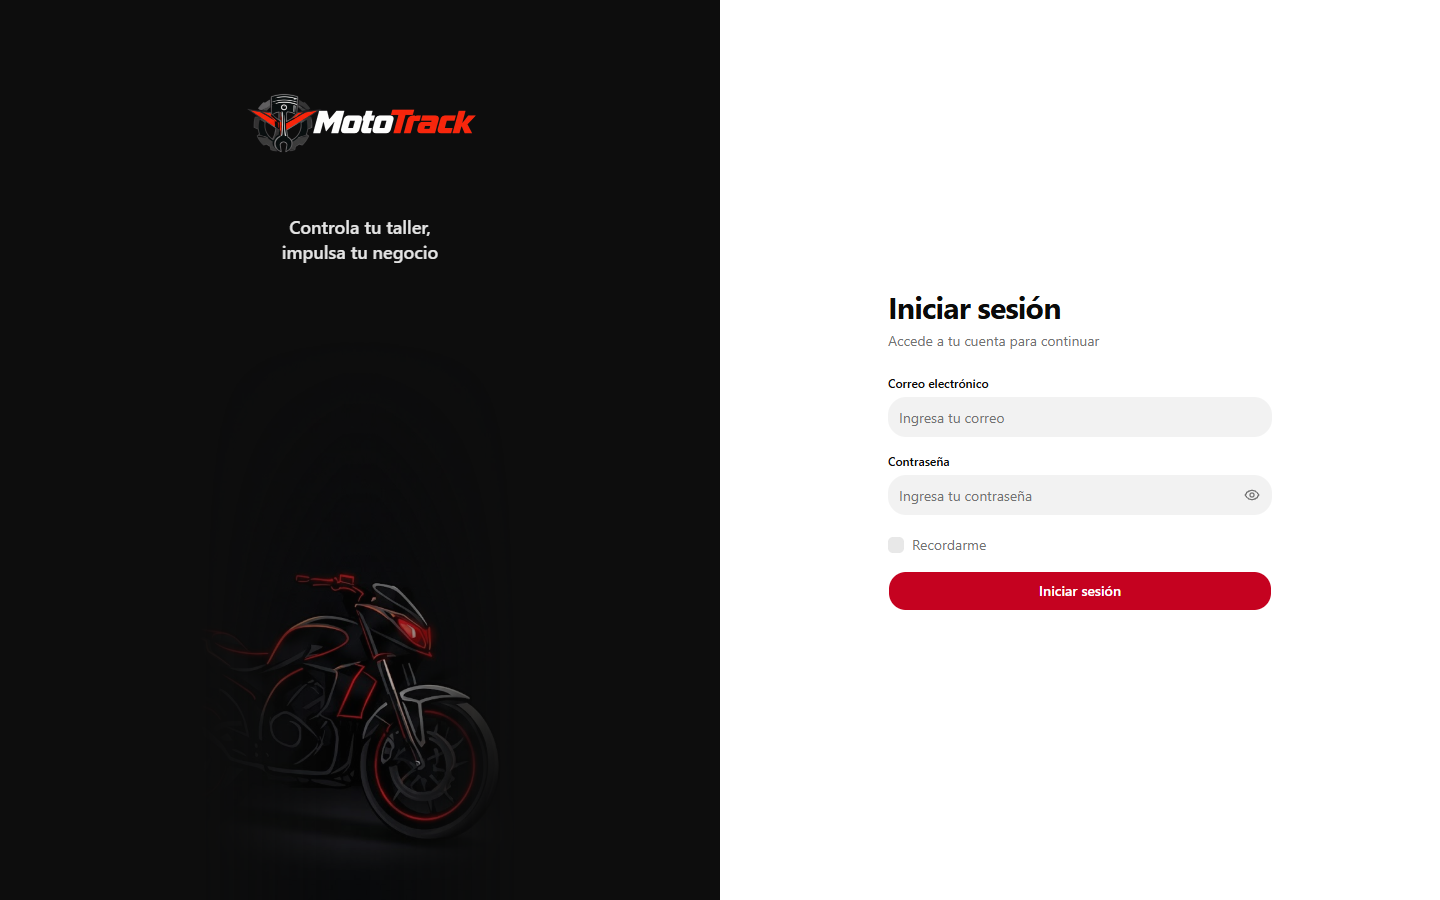
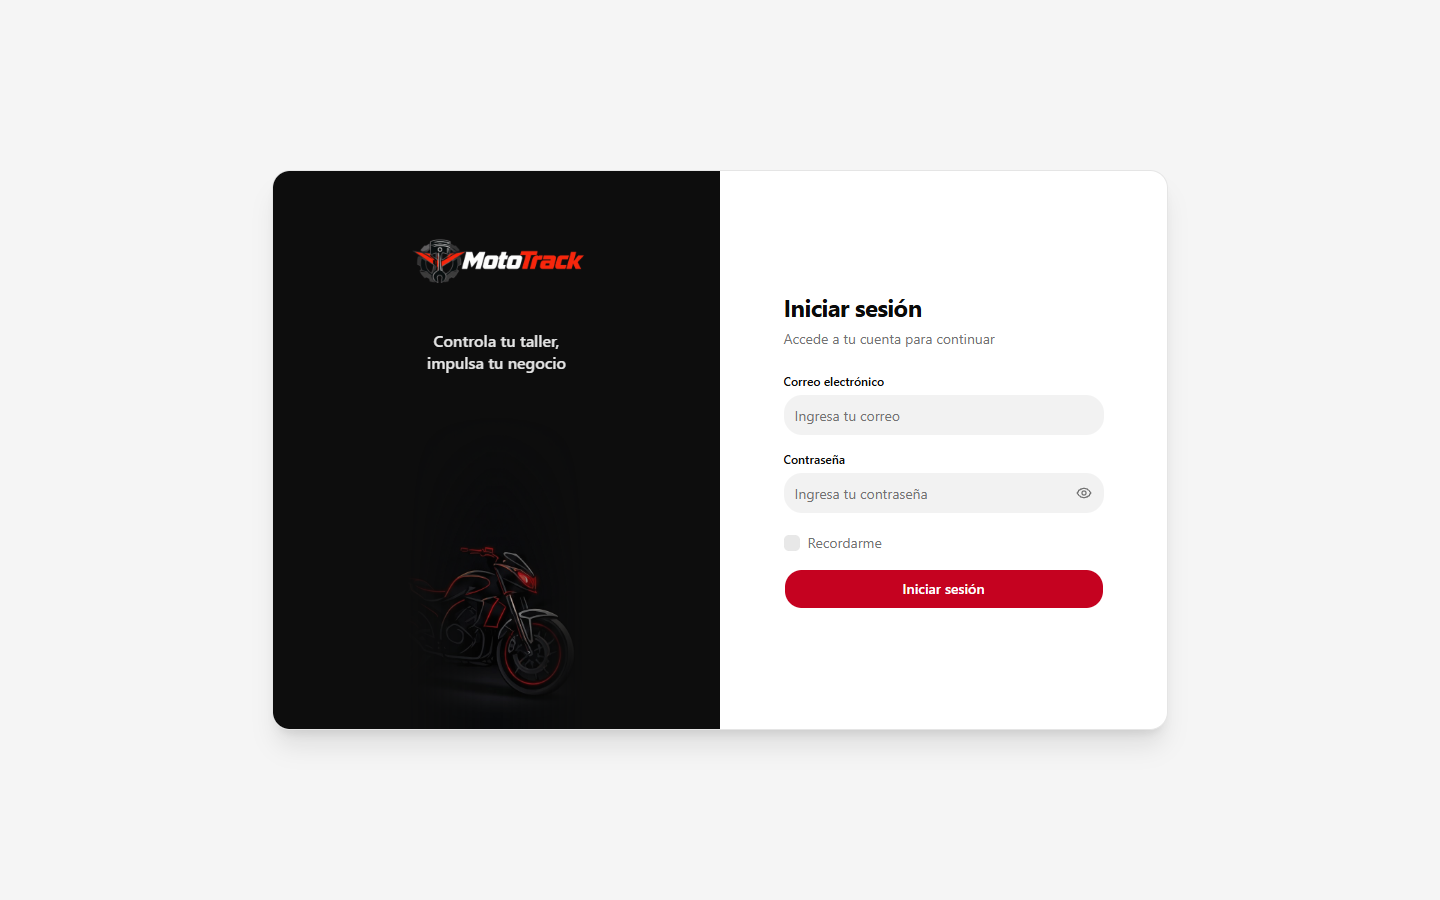
feat(ui): login como tarjeta centrada y compacta

diff --git a/src/pages/LoginPage.jsx b/src/pages/LoginPage.jsx
@@ -73,129 +73,132 @@ export default function LoginPage() {
   }
 
   return (
-    <div className="min-h-screen lg:h-screen lg:overflow-hidden grid lg:grid-cols-2 bg-background">
-      {/* ── COLUMNA IZQUIERDA — Panel de marca (oscuro, desktop) ── */}
-      <div className="relative hidden lg:flex flex-col overflow-hidden bg-sidebar">
-        {/* Cabecera centrada: logo y lema animado */}
-        <div className="flex flex-col items-center pt-14 px-6 text-center z-10 shrink-0">
-          <img
-            src="/logo.png"
-            alt="MotoTrack"
-            className="w-64 animate-splash-in"
-          />
-          <p className="mt-4 text-lg font-semibold text-sidebar-foreground animate-splash-tagline leading-snug">
-            Controla tu taller,
-            <br />
-            impulsa tu negocio
-          </p>
+    <div className="min-h-screen bg-background lg:bg-muted flex flex-col lg:flex-row items-stretch lg:items-center justify-start lg:justify-center lg:p-6">
+      {/* ── TARJETA (desktop lg+) / FLUJO NORMAL (móvil < lg) ── */}
+      <div className="w-full flex-1 lg:flex-initial lg:max-w-4xl lg:h-140 grid lg:grid-cols-2 overflow-hidden lg:rounded-2xl lg:border lg:border-border bg-background lg:bg-card lg:shadow-xl">
+        {/* ── MITAD IZQUIERDA — Panel de marca (oscuro, desktop) ── */}
+        <div className="relative hidden lg:flex flex-col overflow-hidden bg-sidebar">
+          {/* Cabecera centrada: logo y lema animado */}
+          <div className="flex flex-col items-center pt-10 px-6 text-center z-10 shrink-0">
+            <img
+              src="/logo.png"
+              alt="MotoTrack"
+              className="w-48 animate-splash-in"
+            />
+            <p className="mt-3 text-base font-semibold text-sidebar-foreground animate-splash-tagline leading-snug">
+              Controla tu taller,
+              <br />
+              impulsa tu negocio
+            </p>
+          </div>
+
+          {/* Moto con neón rojo anclada abajo con máscara */}
+          <div className="flex-1 min-h-0 w-full flex items-end justify-center overflow-hidden">
+            <img
+              src="/login-hero.png"
+              alt=""
+              aria-hidden="true"
+              className="h-full w-auto object-contain object-bottom mask-x-from-45% mask-x-to-95% mask-t-from-40% mask-t-to-90%"
+            />
+          </div>
         </div>
 
-        {/* Moto con neón rojo anclada abajo con máscara */}
-        <div className="flex-1 min-h-0 w-full flex items-end justify-center overflow-hidden">
-          <img
-            src="/login-hero.png"
-            alt=""
-            aria-hidden="true"
-            className="h-full w-auto object-contain object-bottom mask-x-from-45% mask-x-to-95% mask-t-from-40% mask-t-to-90%"
-          />
-        </div>
-      </div>
+        {/* ── MITAD DERECHA — Formulario ── */}
+        <div className="flex flex-col flex-1 lg:flex-initial lg:h-full">
+          {/* Franja superior solo en móvil/tablet (< lg) para contrastar el logo blanco */}
+          <div className="lg:hidden flex items-center justify-center bg-sidebar py-4 px-4 shadow-xs">
+            <img src="/logo.png" alt="MotoTrack" className="w-40" />
+          </div>
 
-      {/* ── COLUMNA DERECHA — Formulario ── */}
-      <div className="flex flex-col min-h-screen lg:min-h-0">
-        {/* Franja superior solo en móvil/tablet (< lg) para contrastar el logo blanco */}
-        <div className="lg:hidden flex items-center justify-center bg-sidebar py-4 px-4 shadow-xs">
-          <img src="/logo.png" alt="MotoTrack" className="w-40" />
-        </div>
-
-        {/* Formulario: en móvil arriba con pt-10, en desktop centrado */}
-        <div className="flex flex-1 items-start lg:items-center justify-center p-6 pt-10 sm:p-10 lg:p-10">
-          <div className="w-full max-w-sm space-y-6">
-            {/* Título y subtítulo */}
-            <div className="space-y-1.5">
-              <h1 className="text-3xl font-bold tracking-tight text-foreground">
-                Iniciar sesión
-              </h1>
-              <p className="text-sm text-muted-foreground">
-                Accede a tu cuenta para continuar
-              </p>
-            </div>
-
-            {/* Formulario */}
-            <form onSubmit={handleSubmit} className="space-y-4">
-              {/* Campo Correo electrónico */}
+          {/* Formulario: en móvil arriba con pt-10, en desktop centrado con p-10 */}
+          <div className="flex flex-1 items-start lg:items-center justify-center p-6 pt-10 lg:p-10">
+            <div className="w-full max-w-xs space-y-6">
+              {/* Título y subtítulo */}
               <div className="space-y-1.5">
-                <Label htmlFor="email" className="text-xs font-medium text-foreground">
-                  Correo electrónico
-                </Label>
-                <Input
-                  id="email"
-                  type="email"
-                  required
-                  value={email}
-                  onChange={(e) => setEmail(e.target.value)}
-                  placeholder="Ingresa tu correo"
-                  className="h-10 text-sm"
-                  autoComplete="email"
-                />
+                <h1 className="text-2xl font-bold tracking-tight text-foreground">
+                  Iniciar sesión
+                </h1>
+                <p className="text-sm text-muted-foreground">
+                  Accede a tu cuenta para continuar
+                </p>
               </div>
 
-              {/* Campo Contraseña con botón de ojo */}
-              <div className="space-y-1.5">
-                <Label htmlFor="password" className="text-xs font-medium text-foreground">
-                  Contraseña
-                </Label>
-                <div className="relative">
+              {/* Formulario */}
+              <form onSubmit={handleSubmit} className="space-y-4">
+                {/* Campo Correo electrónico */}
+                <div className="space-y-1.5">
+                  <Label htmlFor="email" className="text-xs font-medium text-foreground">
+                    Correo electrónico
+                  </Label>
                   <Input
-                    id="password"
-                    type={showPassword ? 'text' : 'password'}
+                    id="email"
+                    type="email"
                     required
-                    value={password}
-                    onChange={(e) => setPassword(e.target.value)}
-                    placeholder="Ingresa tu contraseña"
-                    className="h-10 pr-10 text-sm"
-                    autoComplete="current-password"
+                    value={email}
+                    onChange={(e) => setEmail(e.target.value)}
+                    placeholder="Ingresa tu correo"
+                    className="h-10 text-sm"
+                    autoComplete="email"
                   />
-                  <button
-                    type="button"
-                    onClick={() => setShowPassword((prev) => !prev)}
-                    aria-label={showPassword ? 'Ocultar contraseña' : 'Mostrar contraseña'}
-                    aria-pressed={showPassword}
-                    className="absolute right-0 top-0 flex h-10 w-10 items-center justify-center text-muted-foreground hover:text-foreground transition-colors duration-150 focus-visible:outline-none focus-visible:ring-2 focus-visible:ring-ring rounded-md"
-                  >
-                    {showPassword ? (
-                      <EyeOff className="size-4" />
-                    ) : (
-                      <Eye className="size-4" />
-                    )}
-                  </button>
                 </div>
-              </div>
 
-              {/* Checkbox Recordarme */}
-              <div className="flex items-center gap-2 pt-1">
-                <Checkbox
-                  id="remember"
-                  checked={rememberMe}
-                  onCheckedChange={(checked) => setRememberMe(!!checked)}
-                />
-                <Label
-                  htmlFor="remember"
-                  className="text-sm font-normal text-muted-foreground cursor-pointer select-none"
+                {/* Campo Contraseña con botón de ojo */}
+                <div className="space-y-1.5">
+                  <Label htmlFor="password" className="text-xs font-medium text-foreground">
+                    Contraseña
+                  </Label>
+                  <div className="relative">
+                    <Input
+                      id="password"
+                      type={showPassword ? 'text' : 'password'}
+                      required
+                      value={password}
+                      onChange={(e) => setPassword(e.target.value)}
+                      placeholder="Ingresa tu contraseña"
+                      className="h-10 pr-10 text-sm"
+                      autoComplete="current-password"
+                    />
+                    <button
+                      type="button"
+                      onClick={() => setShowPassword((prev) => !prev)}
+                      aria-label={showPassword ? 'Ocultar contraseña' : 'Mostrar contraseña'}
+                      aria-pressed={showPassword}
+                      className="absolute right-0 top-0 flex h-10 w-10 items-center justify-center text-muted-foreground hover:text-foreground transition-colors duration-150 focus-visible:outline-none focus-visible:ring-2 focus-visible:ring-ring rounded-md"
+                    >
+                      {showPassword ? (
+                        <EyeOff className="size-4" />
+                      ) : (
+                        <Eye className="size-4" />
+                      )}
+                    </button>
+                  </div>
+                </div>
+
+                {/* Checkbox Recordarme */}
+                <div className="flex items-center gap-2 pt-1">
+                  <Checkbox
+                    id="remember"
+                    checked={rememberMe}
+                    onCheckedChange={(checked) => setRememberMe(!!checked)}
+                  />
+                  <Label
+                    htmlFor="remember"
+                    className="text-sm font-normal text-muted-foreground cursor-pointer select-none"
+                  >
+                    Recordarme
+                  </Label>
+                </div>
+
+                {/* Botón de envío */}
+                <Button
+                  type="submit"
+                  disabled={loading}
+                  className="w-full h-10 font-medium text-sm transition-colors duration-150"
                 >
-                  Recordarme
-                </Label>
-              </div>
-
-              {/* Botón de envío */}
-              <Button
-                type="submit"
-                disabled={loading}
-                className="w-full h-10 font-medium text-sm transition-colors duration-150"
-              >
-                {loading ? 'Iniciando sesión…' : 'Iniciar sesión'}
-              </Button>
-            </form>
+                  {loading ? 'Iniciando sesión…' : 'Iniciar sesión'}
+                </Button>
+              </form>
+            </div>
           </div>
         </div>
       </div>
